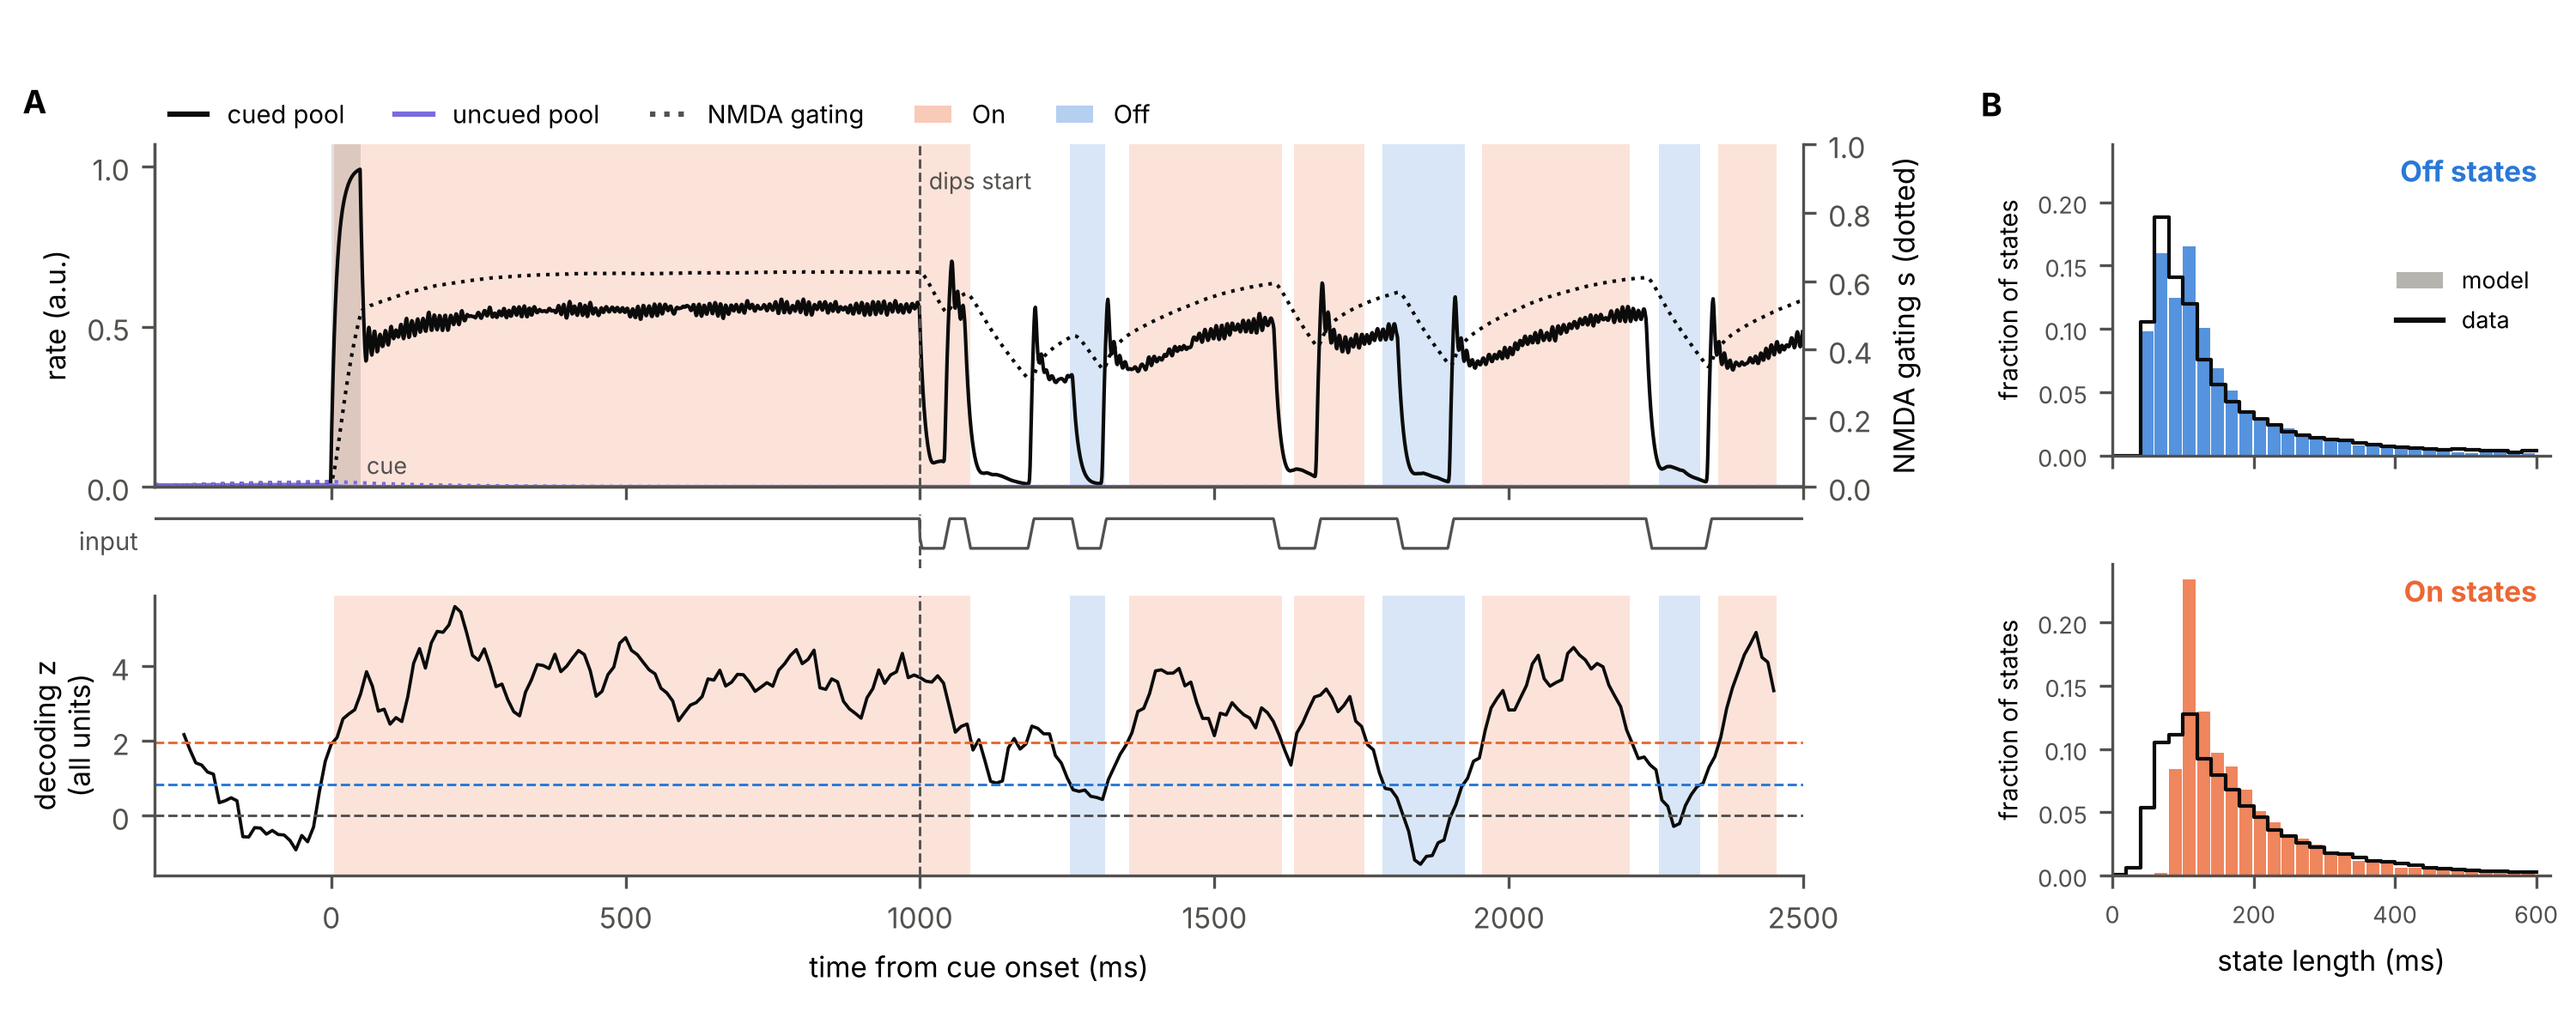
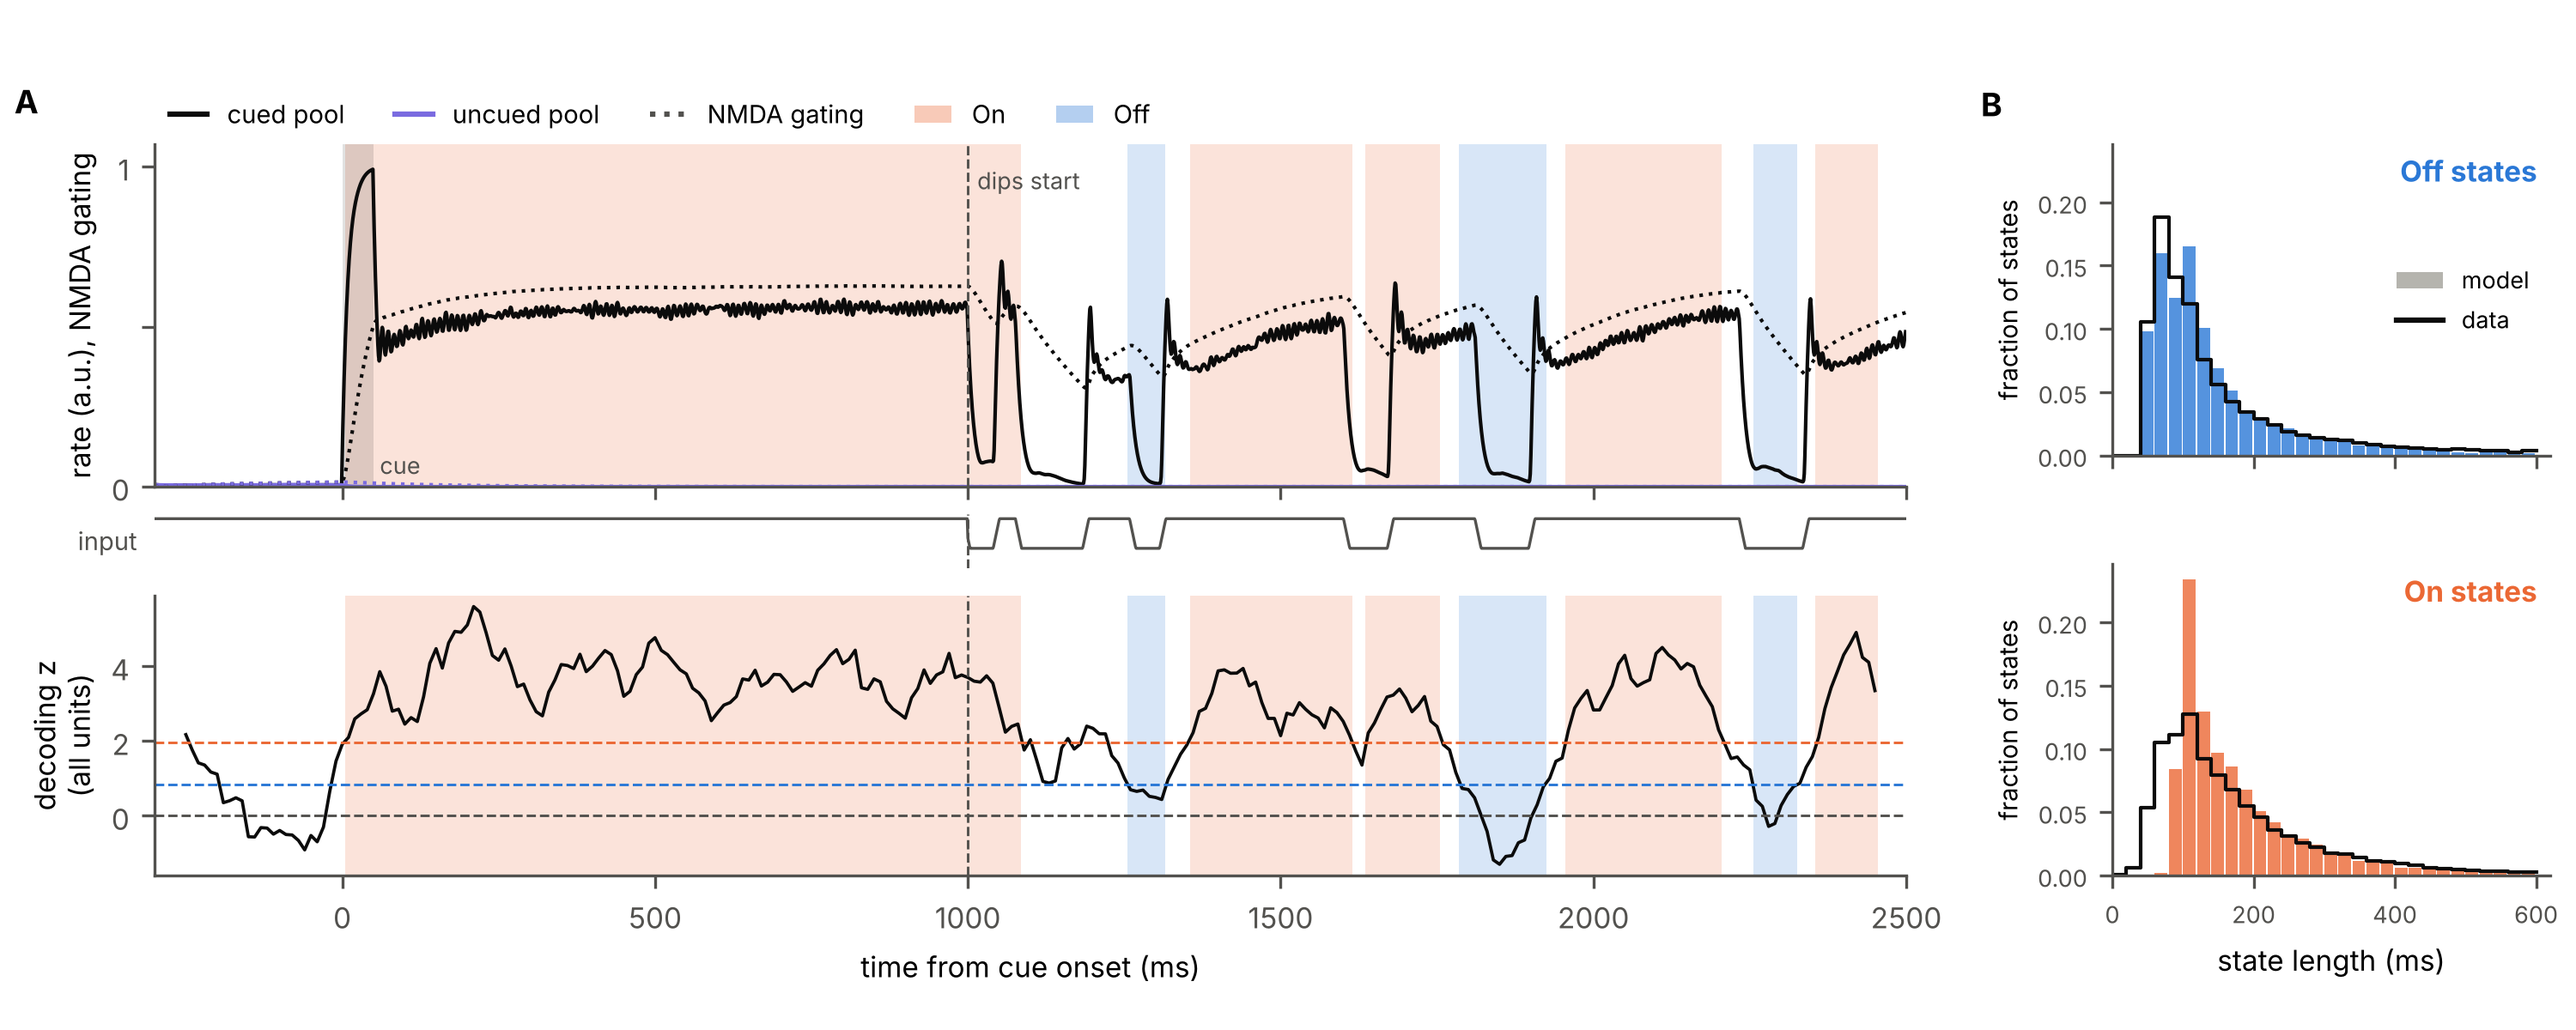
Figure 1: rates and NMDA gating on one axis, ticks 0 and 1
Claude-Session: https://claude.ai/code/session_01DWA8oLxpZgubPZ4A6kb3Lh

diff --git a/paper_model/make_figures.py b/paper_model/make_figures.py
@@ -60,7 +60,7 @@ def figure1(out, hist, path):
     r = out['sets'][FIT_SET]
     tr, t, tz, z, state = example_trial(r['gain'])
     fig = plt.figure(figsize=(10.0, 4.0))
-    gs = fig.add_gridspec(3, 1, height_ratios=[2.2, 0.35, 1.8], hspace=0.12, left=0.06, right=0.70, top=0.86, bottom=0.15)
+    gs = fig.add_gridspec(3, 1, height_ratios=[2.2, 0.35, 1.8], hspace=0.12, left=0.06, right=0.74, top=0.86, bottom=0.15)
     gh = fig.add_gridspec(2, 1, hspace=0.35, left=0.82, right=0.99, top=0.86, bottom=0.15)
     a, b, d = fig.add_subplot(gs[0]), fig.add_subplot(gs[1]), fig.add_subplot(gs[2])
     shade(a, tz, state)
@@ -68,12 +68,10 @@ def figure1(out, hist, path):
     a.text(60, 0.04, 'cue', fontsize=6.5, color=INK2)
     a.plot(t, tr['rc'] / M.FIXED['r_max'], color=INK, lw=1.0)     # rates relative to the sigmoid ceiling
     a.plot(t, tr['ru'] / M.FIXED['r_max'], color=C_UN, lw=1.0)
-    a.set_ylim(0, 1.07); a.set_yticks([0, 0.5, 1]); a.set_ylabel('rate (a.u.)')
+    a.plot(t, tr['sc'], color=INK, lw=1.0, ls=':')
+    a.plot(t, tr['su'], color=C_UN, lw=1.0, ls=':')
+    a.set_ylim(0, 1.07); a.set_yticks([0, 0.5, 1], ['0', '', '1']); a.set_ylabel('rate (a.u.), NMDA gating')
     a.text(QUIET + 15, 1.0, 'dips start', fontsize=6.5, color=INK2, va='top')
-    a2 = a.twinx(); a2.spines['right'].set_visible(True)
-    a2.plot(t, tr['sc'], color=INK, lw=1.0, ls=':')
-    a2.plot(t, tr['su'], color=C_UN, lw=1.0, ls=':')
-    a2.set_ylim(0, 1); a2.set_ylabel('NMDA gating s (dotted)')
     a.legend(handles=[Line2D([], [], color=INK, label='cued pool'), Line2D([], [], color=C_UN, label='uncued pool'),
                       Line2D([], [], color=INK2, ls=':', label='NMDA gating'),
                       plt.Rectangle((0, 0), 1, 1, color=C_ON, alpha=0.35, lw=0, label='On'),
